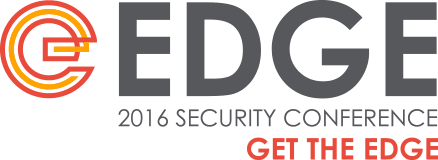
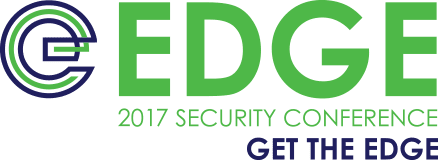
Updating to EDGE2017 color palette

diff --git a/lib/less/_07_site-header.less b/lib/less/_07_site-header.less
@@ -13,7 +13,7 @@ Site Header
 }
 
 .featured-section .site-header {
-	background-color: rgba(255,255,255,0.95);
+	background-color: @edgeblue;
 }
 
 .featured-section .site-header > .wrap {
@@ -39,13 +39,13 @@ Site Header
 --------------------------------------------- */
 nav.nav-primary{
 	li#menu-item-5000 a{
-		background-color: @edgered;
+		background-color: @edgegreen;
 		color: #fff;
 		padding: 10px 15px;
 		border-radius: 3px;
 
 		&:hover{
-			background-color: @edgegray;
+			background-color: @edgelightgray;
 		}
 	}
 }
@@ -70,7 +70,7 @@ nav.nav-primary{
 			-ms-transition:     all 0.2s ease-in-out;
 			-o-transition:      all 0.2s ease-in-out;
 			transition:         all 0.2s ease-in-out;
-			background-image: url(../../images/edgeseccon-and-tagline.grayscale.438x160.png);
+			background-image: url(../../images/edgeseccon-and-tagline.white.438x160.png);
 		}
 	}
 }
@@ -90,7 +90,7 @@ nav.nav-primary{
 		display: block;
 		height: 80px;
 		text-indent: -9999px;
-		background: url(../../images/edgeseccon-and-tagline.grayscale-dark.438x160.png) no-repeat;
+		background: url(../../images/edgeseccon-and-tagline.white.438x160.png) no-repeat;
 	}
 }
 
@@ -333,7 +333,7 @@ nav.nav-primary{
     outline: none;
     line-height: 20px;
     vertical-align: middle;
-    background: @edgered;
+    background: @edgegreen;
     box-shadow: 0 0 40px rgba(0, 0, 0, .13) inset;
     border-radius: 4px;
     zoom: 1;

diff --git a/lib/html/front-page-1.html b/lib/html/front-page-1.html
@@ -8,8 +8,8 @@
 	<div class="two-thirds first">
 		<h3>EDGE2016 In The News</h3>
 		<ul>
-			<li><a style="color: #e94f3d" href="http://www.knoxnews.com/story/money/business/2016/10/18/cybercrime-greatest-threat-our-national-security/92356898/">Cybercrime is 'greatest threat to our national security'</a><br />Knoxville News Sentinel, Oct 18, 2016</li>
-			<li><a style="color: #e94f3d" href="http://www.knoxnews.com/videos/money/business/2016/10/18/92363056/">Former White House CIO Theresa Payton talks about cybersecurity</a><br />Knoxville News Sentinel Video, Oct 18, 2016</li>
+			<li><a style="color: #51B848" href="http://www.knoxnews.com/story/money/business/2016/10/18/cybercrime-greatest-threat-our-national-security/92356898/">Cybercrime is 'greatest threat to our national security'</a><br />Knoxville News Sentinel, Oct 18, 2016</li>
+			<li><a style="color: #51B848" href="http://www.knoxnews.com/videos/money/business/2016/10/18/92363056/">Former White House CIO Theresa Payton talks about cybersecurity</a><br />Knoxville News Sentinel Video, Oct 18, 2016</li>
 		</ul>
 	</div>
 	<div class="one-third">

diff --git a/lib/less/_14_print.less b/lib/less/_14_print.less
@@ -1,32 +1,34 @@
 /* Print Styles */
-header,
-.site-header.dark,
-.top-section{
-  display: none !important;
-}
-.conference-agenda{
-  .day{
-    h3{
-      font-size: 20px;
-    }
+@media print {
+  header,
+  .site-header.dark,
+  .top-section{
+    display: none !important;
   }
-
-  div.wrap > h1{
-    display: none;
-  }
-  .legend{
-    h4.time{
-      font-size: 16px !important;
+  .conference-agenda{
+    .day{
+      h3{
+        font-size: 20px;
+      }
     }
 
-    h5{
-      font-size: 14px;
+    div.wrap > h1{
+      display: none;
+    }
+    .legend{
+      h4.time{
+        font-size: 16px !important;
+      }
 
-      & > span{
-        font-size: .6em;
-        height: 20px;
-        width: 20px;
-        line-height: 20px;
+      h5{
+        font-size: 14px;
+
+        & > span{
+          font-size: .6em;
+          height: 20px;
+          width: 20px;
+          line-height: 20px;
+        }
       }
     }
   }

diff --git a/lib/less/_02_defaults.less b/lib/less/_02_defaults.less
@@ -5,7 +5,7 @@ Defaults
 @body-font: "Merriweather", sans-serif;
 @nav-font: @heading-font;
 @button-font: @heading-font;
-@button-color: @edgered;
+@button-color: @edgegreen;
 @button-color-hover: @edgegold;
 
 /* Typographical Elements
@@ -56,7 +56,7 @@ a.post-edit-link{
 }
 
 a {
-	color: #22a1c4;
+	color: @edgegreen;
 	text-decoration: none;
 }
 

diff --git a/lib/less/_08_site-navigation.less b/lib/less/_08_site-navigation.less
@@ -19,7 +19,7 @@ Site Navigation
 }
 
 .genesis-nav-menu a {
-	color: @edgered;
+	color: @edgegreen;
 	display: block;
 	font-size: 14px;
 	font-weight: 700;
@@ -30,7 +30,7 @@ Site Navigation
 
 .site-header.dark .genesis-nav-menu a {
 	padding: 30px 15px;
-	color: @edgegold;
+	color: #fff;
 }
 
 .genesis-nav-menu li.highlight a:hover::before {

diff --git a/lib/less/_00_variables.less b/lib/less/_00_variables.less
@@ -6,12 +6,18 @@
 @edgegold: 	#f39d20;
 @edgegray: 	#58595B;
 @edgemaron: #8e2e1e;
+@edgeblue: #211F5D;
+@edgegreen: #51B848;
+@edgelightgray: #f2f2f2;
 
 .red{
 	color: @edgered;
 }
 .gold{
 	color: @edgegold;
+}
+.green{
+  color: @edgegreen;
 }
 
 @font-size-base: 			20px;

diff --git a/lib/less/_09.01_front-page-sections.less b/lib/less/_09.01_front-page-sections.less
@@ -37,11 +37,13 @@
 	h1{
 		font-size: 4rem;
 		font-weight: 600;
+		color: @edgegreen;
 
 		span{
 			font-size: 2rem;
 			display: block;
 			margin-top: 0;
+			color: @edgelightgray;
 		}
 	}
 	h4.widgettitle{

diff --git a/lib/less/_09.00_content-area.less b/lib/less/_09.00_content-area.less
@@ -367,7 +367,7 @@ p.entry-meta {
 
 .archive-pagination li a:hover,
 .archive-pagination .active a {
-	background-color: #22a1c4;
+	background-color: @edgegreen;
 	color: #fff;
 }
 

diff --git a/lib/less/main.less b/lib/less/main.less
@@ -79,3 +79,4 @@
 		- Max-width: 480px
 */
 @import url('_13_media-queries');
+@import url('_14_print');
